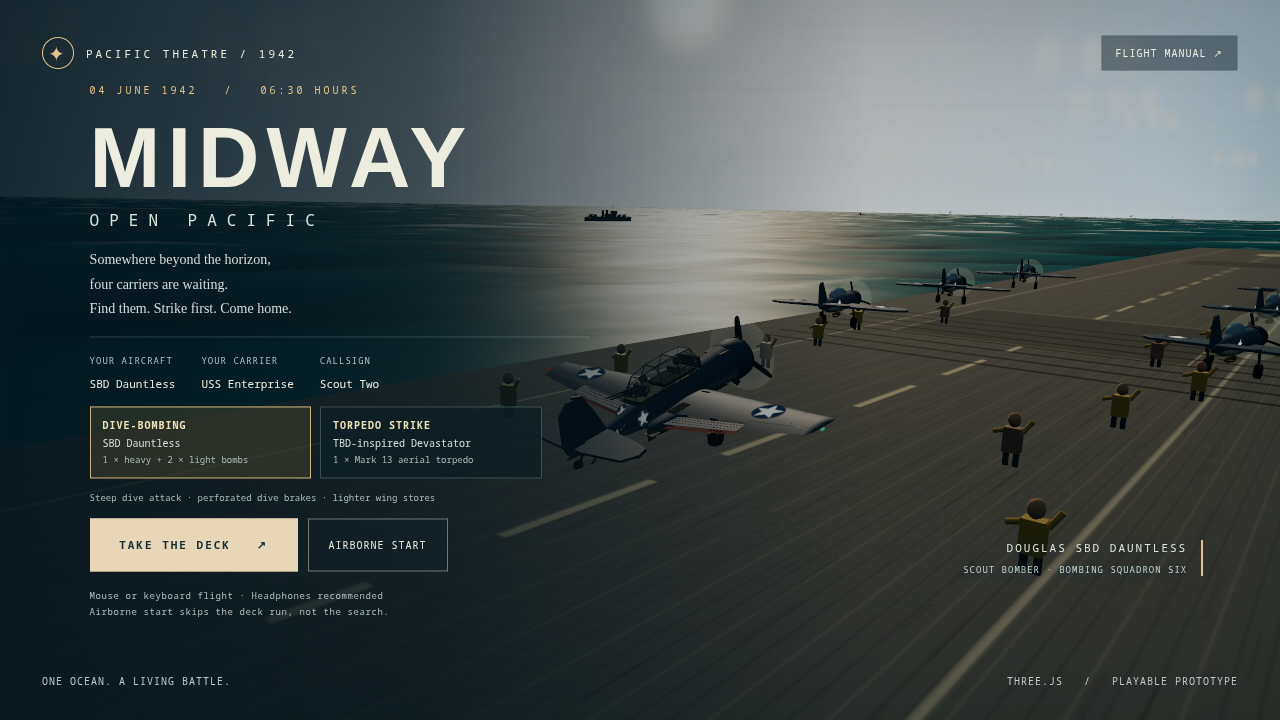
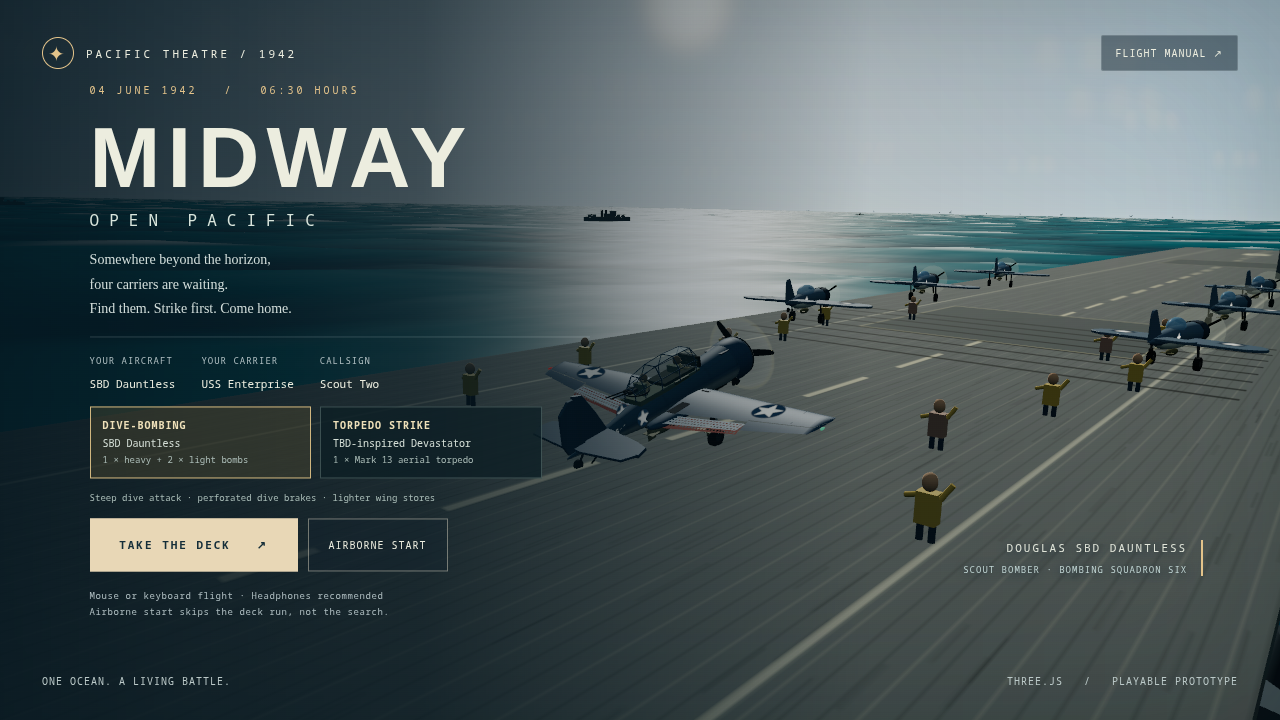
fix(sandbox): inverted pitch, softer stick with stall guard, wing-gun tracers, daylight
- Invert the pitch axis (Down pulls the nose up) for keyboard and mouse.
- Soften the stick and bleed authority off with airspeed, and unpull past the
  stall so a held input cannot park the aircraft at 21 degrees of AoA.
- Fire the player's tracers from the wing guns (body right axis), add muzzle
  flashes, and shorten the tracer streak so shots no longer trail from behind
  the wing.
- Brighter, cooler lighting: exposure 1.12, lighter/thinner fog, cooler key and
  fill, fainter clouds; centre the aircraft on the carrier deck.
- Shadows remain off because three r185's WebGPU shadow pass raises a binding
  buffer validation error for this scene.

diff --git a/midway-open-pacific/index.html b/midway-open-pacific/index.html
@@ -18,7 +18,7 @@
 <div id="service" class="panel hidden"><div class="eyebrow" id="service-carrier">USS ENTERPRISE / DECK OPERATIONS</div><h2>Caught the wire.</h2><div class="service-steps">REFUEL → REARM → REPAIR</div><div class="service-progress"><i id="service-bar"></i></div><p class="mono muted" id="service-time" style="font-size:10px"></p></div>
 <div class="bottom-bar"><div class="shortcuts"><span><kbd>W S</kbd>Throttle</span><span><kbd>↑ ↓ ← →</kbd>Steer</span><span><kbd>SPACE</kbd>Guns</span><span><kbd>B</kbd>Ordnance</span><span><kbd>C</kbd>Camera</span><span><kbd>T</kbd>Course hold</span></div><div class="actions"><button id="btn-bomb" class="small-button">BOMB ↓</button><button id="btn-report" class="small-button">REPORT [R]</button><button id="btn-command" class="small-button">SQUADRON [Q]</button></div><span id="flight-label" class="flight-label">SCOUT TWO / SBD</span></div></div>
 <div id="renderer-note"></div>
-<div id="pause-overlay" class="overlay hidden"><div class="dialog"><div class="heading"><div class="eyebrow">SCOUT TWO / FLIGHT MANUAL</div><button id="close-pause" class="small-button">CLOSE ×</button></div><h2 id="pause-title">Know your aircraft.</h2><p>Force-based flight: bank the wings to turn; the nose and flight path are not the same. Avoid hard pulls at low speed. Stability assist (U) helps with bank and trim; Direct mode allows free rolls and manual pitch trim. The battle pauses while this manual or the intelligence map is open.</p><div class="controls-grid"><div><kbd>Click sky</kbd>Engage mouse steering</div><div><kbd>X</kbd>Release / recenter mouse</div><div><kbd>↑ ↓</kbd>Climb / dive</div><div><kbd>← →</kbd>Turn left / right</div><div><kbd>W S</kbd>Increase / decrease throttle</div><div><kbd>SPACE</kbd>or hold left click: guns</div><div><kbd>B</kbd>Release selected bomb / torpedo</div><div><kbd>F</kbd>Toggle dive brakes</div><div><kbd>G</kbd>Toggle landing gear</div><div><kbd>C / F1</kbd>Cycle cameras / pilot cockpit</div><div><kbd>F2 / F3</kbd>Chase / wide camera</div><div><kbd>Right drag</kbd>Look around cockpit</div><div><kbd>I</kbd>Engine fuel cutoff / reopen</div><div><kbd>N</kbd>Flaps: takeoff / landing / up</div><div><kbd>Z E</kbd>Left / right rudder</div><div><kbd>U</kbd>Stability assist / direct flight</div><div><kbd>[ ]</kbd>Pitch trim (Direct mode)</div><div><kbd>K</kbd>Hold wheel brakes on deck</div><div><kbd>T</kbd>Hold course to search / target</div><div><kbd>H</kbd>Navigate to home carrier</div><div><kbd>SHIFT</kbd>3× transit, clear air only</div><div><kbd>R</kbd>Radio fresh contacts</div><div><kbd>TAB</kbd>Cycle known carrier contacts</div><div><kbd>M</kbd>Intelligence map</div><div><kbd>1 2 3 4</kbd>Cover / strike / fight / return</div><div><kbd>L</kbd>Assisted carrier recovery</div><div><kbd>J</kbd>Follow released ordnance</div><div><kbd>V</kbd>Hold for rear view</div><div><kbd>P ESC</kbd>Pause / resume</div></div><p><b style="color:var(--gold)">Dive bombing:</b> climb above 5,000 ft, approach the contact, nose down and deploy F. Put the amber impact circle on the moving deck, press B, and pull up before the water fills the screen.</p><p><b style="color:var(--gold)">Recovery:</b> approach a friendly carrier from behind, aligned with its bow. Gear down, below 600 ft, under 140 knots, and within 700 m astern: press L to fly an assisted final, not teleport. Lower flaps with N; aim for 95–105 kt and a gentle descent. Any steering cancels the assist. A safe touchdown catches a wire and decelerates on deck. Service takes 12 simulation seconds.</p><p><b style="color:var(--gold)">Torpedo run:</b> the torpedo preset uses a TBD-inspired airframe. Fly level, gear and flaps up, 16–50 ft above the sea and 68–110 kt. The green release cue confirms a safe envelope, not a guaranteed hit. Lead moving ships; your straight-running weapon needs 180 m to arm. Poor releases may break on water entry.</p><p><b style="color:var(--gold)">Battle damage:</b> oil and fuel leaks drain real fuel; wing fires weaken spars and spoil lift. A damaged engine loses power. I closes the engine fuel valve and may help an engine fire, but stops the engine and does not extinguish wing-tank fires. Break off and return early.</p><div class="deck-loadout"><label for="deck-loadout">NEXT SORTIE</label><select id="deck-loadout"><option value="bomb">SBD / Bombs</option><option value="torpedo">TBD / Torpedo</option></select><small id="deck-loadout-note">Available while stopped on deck.</small></div><div class="settings"><label>GRAPHICS <select id="quality"><option value="balanced">Balanced</option><option value="high">High</option><option value="low">Low</option></select></label><button id="fullscreen" class="small-button">FULLSCREEN ↗</button></div><div class="dialog-actions"><button id="resume" class="primary">RETURN TO FLIGHT</button><button id="restart-pause" class="secondary">NEW OPERATION</button></div></div></div>
+<div id="pause-overlay" class="overlay hidden"><div class="dialog"><div class="heading"><div class="eyebrow">SCOUT TWO / FLIGHT MANUAL</div><button id="close-pause" class="small-button">CLOSE ×</button></div><h2 id="pause-title">Know your aircraft.</h2><p>Force-based flight: bank the wings to turn; the nose and flight path are not the same. Avoid hard pulls at low speed. Stability assist (U) helps with bank and trim; Direct mode allows free rolls and manual pitch trim. The battle pauses while this manual or the intelligence map is open.</p><div class="controls-grid"><div><kbd>Click sky</kbd>Engage mouse steering</div><div><kbd>X</kbd>Release / recenter mouse</div><div><kbd>↓ ↑</kbd>Climb / dive (inverted)</div><div><kbd>← →</kbd>Turn left / right</div><div><kbd>W S</kbd>Increase / decrease throttle</div><div><kbd>SPACE</kbd>or hold left click: guns</div><div><kbd>B</kbd>Release selected bomb / torpedo</div><div><kbd>F</kbd>Toggle dive brakes</div><div><kbd>G</kbd>Toggle landing gear</div><div><kbd>C / F1</kbd>Cycle cameras / pilot cockpit</div><div><kbd>F2 / F3</kbd>Chase / wide camera</div><div><kbd>Right drag</kbd>Look around cockpit</div><div><kbd>I</kbd>Engine fuel cutoff / reopen</div><div><kbd>N</kbd>Flaps: takeoff / landing / up</div><div><kbd>Z E</kbd>Left / right rudder</div><div><kbd>U</kbd>Stability assist / direct flight</div><div><kbd>[ ]</kbd>Pitch trim (Direct mode)</div><div><kbd>K</kbd>Hold wheel brakes on deck</div><div><kbd>T</kbd>Hold course to search / target</div><div><kbd>H</kbd>Navigate to home carrier</div><div><kbd>SHIFT</kbd>3× transit, clear air only</div><div><kbd>R</kbd>Radio fresh contacts</div><div><kbd>TAB</kbd>Cycle known carrier contacts</div><div><kbd>M</kbd>Intelligence map</div><div><kbd>1 2 3 4</kbd>Cover / strike / fight / return</div><div><kbd>L</kbd>Assisted carrier recovery</div><div><kbd>J</kbd>Follow released ordnance</div><div><kbd>V</kbd>Hold for rear view</div><div><kbd>P ESC</kbd>Pause / resume</div></div><p><b style="color:var(--gold)">Dive bombing:</b> climb above 5,000 ft, approach the contact, nose down and deploy F. Put the amber impact circle on the moving deck, press B, and pull up before the water fills the screen.</p><p><b style="color:var(--gold)">Recovery:</b> approach a friendly carrier from behind, aligned with its bow. Gear down, below 600 ft, under 140 knots, and within 700 m astern: press L to fly an assisted final, not teleport. Lower flaps with N; aim for 95–105 kt and a gentle descent. Any steering cancels the assist. A safe touchdown catches a wire and decelerates on deck. Service takes 12 simulation seconds.</p><p><b style="color:var(--gold)">Torpedo run:</b> the torpedo preset uses a TBD-inspired airframe. Fly level, gear and flaps up, 16–50 ft above the sea and 68–110 kt. The green release cue confirms a safe envelope, not a guaranteed hit. Lead moving ships; your straight-running weapon needs 180 m to arm. Poor releases may break on water entry.</p><p><b style="color:var(--gold)">Battle damage:</b> oil and fuel leaks drain real fuel; wing fires weaken spars and spoil lift. A damaged engine loses power. I closes the engine fuel valve and may help an engine fire, but stops the engine and does not extinguish wing-tank fires. Break off and return early.</p><div class="deck-loadout"><label for="deck-loadout">NEXT SORTIE</label><select id="deck-loadout"><option value="bomb">SBD / Bombs</option><option value="torpedo">TBD / Torpedo</option></select><small id="deck-loadout-note">Available while stopped on deck.</small></div><div class="settings"><label>GRAPHICS <select id="quality"><option value="balanced">Balanced</option><option value="high">High</option><option value="low">Low</option></select></label><button id="fullscreen" class="small-button">FULLSCREEN ↗</button></div><div class="dialog-actions"><button id="resume" class="primary">RETURN TO FLIGHT</button><button id="restart-pause" class="secondary">NEW OPERATION</button></div></div></div>
 <div id="map-overlay" class="overlay hidden"><div class="dialog map-dialog"><div class="heading"><div><div class="eyebrow">TASK FORCE INTELLIGENCE</div><h2>The Pacific picture.</h2></div><button id="close-map" class="small-button">M / CLOSE ×</button></div><div class="map-layout"><div><canvas id="big-map" width="1100" height="800"></canvas><div class="legend"><span><i></i>FRIENDLY</span><span><i class="enemy"></i>REPORTED CONTACT</span><span>○ UNCERTAINTY</span></div></div><div class="map-sidebar"><h3>CONTACT REPORTS</h3><div id="contact-list"></div><p class="map-note">Hostile positions are reports, not live tracking. Circles grow as reports age. Select a contact to designate it for your squadron.</p><h3>YOUR ORDERS</h3><p class="map-note">Find the four carriers. Neutralize their flight decks. Preserve the U.S. fleet. Recover aboard a friendly carrier.</p><button id="map-home" class="small-button">H / SET HOME COURSE</button></div></div></div></div>
 <div id="command-overlay" class="overlay hidden"><div class="dialog" style="width:480px"><div class="heading"><div class="eyebrow">SQUADRON SIX / RADIO COMMAND</div><button id="close-command" class="small-button">CLOSE ×</button></div><h2>Your wing. Your call.</h2><p>Orders apply to aircraft attached to your wing. Strike orders use your designated contact.</p><div id="command-buttons" style="display:grid;gap:10px"><button data-command="cover" class="secondary">1 &nbsp; COVER ME — FORM ON MY WING</button><button data-command="strike" class="secondary">2 &nbsp; ATTACK DESIGNATED CARRIER</button><button data-command="engage" class="secondary">3 &nbsp; ENGAGE ENEMY FIGHTERS</button><button data-command="rtb" class="secondary">4 &nbsp; RETURN TO CARRIER</button></div></div></div>
 <div id="debrief" class="overlay hidden"><div class="dialog"><div class="eyebrow" id="debrief-phase">AFTER ACTION REPORT</div><h2 id="debrief-title">The Pacific takes its toll.</h2><p id="debrief-reason"></p><div class="debrief-stats"><div><b id="stat-score">0</b><span>SCORE</span></div><div><b id="stat-kills">0</b><span>AIRCRAFT</span></div><div><b id="stat-hits">0</b><span>SHIP HITS</span></div><div><b id="stat-sorties">1</b><span>SORTIES</span></div></div><p>The operation is a compressed, dynamic sandbox, not a reenactment. Every new operation resets both fleets.</p><div class="dialog-actions"><button id="restart-deck" class="primary">NEW DECK SORTIE</button><button id="restart-air" class="secondary">AIRBORNE START</button></div></div></div>

diff --git a/midway-open-pacific/src/sim/battle.ts b/midway-open-pacific/src/sim/battle.ts
@@ -130,7 +130,7 @@ export class Battle {
       flaps: 0.33,
       assist: true,
       deckOffset: -105,
-      deckLateral: -2.5,
+      deckLateral: 0,
       deckSpeed: 0,
       chocks: true,
       pitch: 0.22,
@@ -427,12 +427,21 @@ export class Battle {
       f = { x: tx / n, y: ty / n, z: tz / n };
     }
     const spread = a === this.player ? 0.003 : 0.012;
-    for (const side of [-1, 1])
+    // The player's guns are in the wings: offset along the body's own right axis so the tracers
+    // leave the wing leading edge rather than the fuselage. AI aircraft keep the generic offset.
+    const axes = a === this.player && a.attitude ? attitudeAxes(a) : null;
+    const right = axes ? axes.r : { x: Math.cos(a.heading), y: 0, z: Math.sin(a.heading) };
+    const up = axes ? axes.u : { x: 0, y: 1, z: 0 };
+    const lateral = a === this.player ? 3.0 : 1.7;
+    for (const side of [-1, 1]) {
+      const ox = a.x + right.x * side * lateral + f.x * 5 + up.x * 0.05;
+      const oy = a.y + right.y * side * lateral + f.y * 5 + up.y * 0.05;
+      const oz = a.z + right.z * side * lateral + f.z * 5 + up.z * 0.05;
       this.bullets.push({
         id: this.id("bullet"),
-        x: a.x + Math.cos(a.heading) * side * 1.7 + f.x * 5,
-        y: a.y + f.y * 5,
-        z: a.z + Math.sin(a.heading) * side * 1.7 + f.z * 5,
+        x: ox,
+        y: oy,
+        z: oz,
         vx: (f.x + (this.random() - 0.5) * spread) * 950,
         vy: (f.y + (this.random() - 0.5) * spread) * 950,
         vz: (f.z + (this.random() - 0.5) * spread) * 950,
@@ -441,6 +450,13 @@ export class Battle {
         ttl: 2.0,
         type: "gun",
       });
+      if (a === this.player)
+        this.fx("muzzle", {
+          x: a.x + right.x * side * lateral + f.x * 1.7,
+          y: a.y + right.y * side * lateral + f.y * 1.7,
+          z: a.z + right.z * side * lateral + f.z * 1.7,
+        }, 0.55);
+    }
     if (a === this.player) {
       a.heat = 1;
       this.event("gun");
@@ -724,7 +740,7 @@ export class Battle {
           bombs: 3,
           mode: "deck",
           deckOffset: -105,
-          deckLateral: -2.5,
+          deckLateral: 0,
           deckSpeed: 0,
           chocks: true,
           throttle: 0.18,
@@ -851,6 +867,14 @@ export class Battle {
         controls.rudder = 0;
         controls.autopilot = true;
       }
+    }
+    if (!controls.autopilot) {
+      // Arcade stick feel: soften the raw demand, bleed it off with airspeed, and unpull when the
+      // wing is already past the stall so a held stick cannot park the aircraft at 21° of AoA.
+      const authority = clamp((p.ias ?? p.speed) / 95, 0.4, 1);
+      controls.turn = (controls.turn ?? 0) * 0.6;
+      controls.pitch = (controls.pitch ?? 0) * 0.6 * authority;
+      if ((p.stall ?? 0) > 0.3 || (p.aoa ?? 0) > 0.26) controls.pitch = Math.min(controls.pitch, -0.04);
     }
     const previousY = p.y;
     this.playerFlight.step(dt, controls);

diff --git a/midway-open-pacific/src/render/world.ts b/midway-open-pacific/src/render/world.ts
@@ -65,13 +65,13 @@ export class WorldView {
     this.renderer = host.renderer.raw as T.WebGLRenderer;
     this.renderer.outputColorSpace = T.SRGBColorSpace;
     this.renderer.toneMapping = T.ACESFilmicToneMapping;
-    this.renderer.toneMappingExposure = 0.95;
+    this.renderer.toneMappingExposure = 1.12;
     this.renderer.shadowMap.enabled = false;
     this.renderer.shadowMap.type = T.BasicShadowMap;
-    this.scene.fog = new T.FogExp2(0x8fa9b4, 0.000028);
-    const hemi = new T.HemisphereLight(0xc6dbe4, 0x34545f, 0.7);
+    this.scene.fog = new T.FogExp2(0xb9d2dc, 0.000012);
+    const hemi = new T.HemisphereLight(0xdcecf4, 0x4a6670, 0.95);
     this.scene.add(hemi);
-    this.sun = new T.DirectionalLight(0xffddb8, 1.65);
+    this.sun = new T.DirectionalLight(0xfff6e6, 2.15);
     this.sun.position.set(-200, 140, -240);
     this.scene.add(this.sun);
     this.scene.add(this.sun.target);
@@ -105,7 +105,7 @@ export class WorldView {
     const sun = normalize(vec3(-0.62, 0.23, -0.75));
     const facing = dot(direction, sun).max(0);
     const gradient = mix(horizon, zenith, pow(height, float(0.46)));
-    const glow = vec3(0.5, 0.28, 0.11).mul(pow(facing, float(9)).mul(0.75));
+    const glow = vec3(0.52, 0.4, 0.26).mul(pow(facing, float(9)).mul(0.5));
     const disk = vec3(4, 2.9, 1.8).mul(pow(facing, float(2100)));
     const sky = gradient.add(glow).add(disk);
     const belowMix = float(1).sub(smoothstep(float(-0.12), float(0), direction.y));
@@ -125,7 +125,7 @@ export class WorldView {
 
   makeClouds(): void {
     const random = rng(1842);
-    const material = new T.SpriteMaterial({ map: this.cloudTex, color: 0xf8efe0, transparent: true, opacity: 0.3, depthWrite: false, fog: true });
+    const material = new T.SpriteMaterial({ map: this.cloudTex, color: 0xf8efe0, transparent: true, opacity: 0.12, depthWrite: false, fog: true });
     for (let i = 0; i < 65; i += 1) {
       const s = new T.Sprite(material);
       s.position.set((random() - 0.5) * 46000, 1300 + random() * 1600, (random() - 0.5) * 45000);
@@ -392,7 +392,7 @@ export class WorldView {
     for (const a of b.bullets) {
       if (i >= 1000) break;
       const k = i * 6;
-      const length = a.type === "flak" ? 0.035 : 0.045;
+      const length = a.type === "flak" ? 0.02 : 0.012;
       this.tracerPositions.set([a.x, a.y, a.z, a.x - a.vx * length, a.y - a.vy * length, a.z - a.vz * length], k);
       const color = a.team === "us" ? [1, 0.83, 0.4] : [1, 0.42, 0.18];
       this.tracerColors.set([...color, ...color.map((x) => x * 0.4)], k);

diff --git a/midway-open-pacific/src/scenes/Midway.ts b/midway-open-pacific/src/scenes/Midway.ts
@@ -219,9 +219,11 @@ export class Midway extends Scene<GameState, undefined> {
     let speed = 1;
     if (inFlight) {
       let turn = (this.keys.has("ArrowRight") || this.keys.has("KeyD") ? 1 : 0) - (this.keys.has("ArrowLeft") || this.keys.has("KeyA") ? 1 : 0);
-      let pitch = (this.keys.has("ArrowUp") ? 1 : 0) - (this.keys.has("ArrowDown") ? 1 : 0);
+      // Inverted pitch, as a flight-sim stick: pulling back (Down, or the mouse pulled down)
+      // raises the nose.
+      let pitch = (this.keys.has("ArrowDown") ? 1 : 0) - (this.keys.has("ArrowUp") ? 1 : 0);
       if (!turn && this.mouse.active) turn = this.mouse.x;
-      if (!pitch && this.mouse.active) pitch = this.mouse.y;
+      if (!pitch && this.mouse.active) pitch = -this.mouse.y;
       const input = {
         turn,
         pitch,
